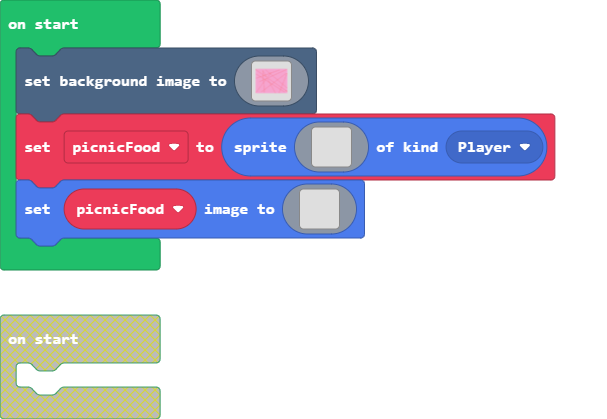
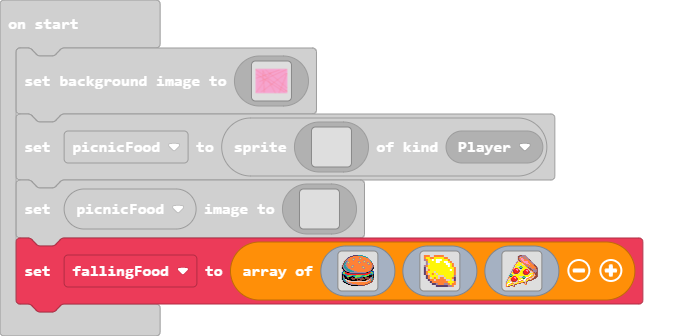
Update main.blocks, main.ts

diff --git a/main.ts b/main.ts
@@ -156,3 +156,87 @@ picnicFood.setImage(img`
     . . . . . . . . . . . . . . . . 
     . . . . . . . . . . . . . . . . 
     `)
+let fallingFood = [img`
+    ...........ccccc66666...........
+    ........ccc4444444444666........
+    ......cc444444444bb4444466......
+    .....cb4444bb4444b5b444444b.....
+    ....eb4444b5b44444b44444444b....
+    ...ebb44444b4444444444b444446...
+    ..eb6bb444444444bb444b5b444446..
+    ..e6bb5b44444444b5b444b44bb44e..
+    .e66b4b4444444444b4444444b5b44e.
+    .e6bb444444444444444444444bb44e.
+    eb66b44444bb444444444444444444be
+    eb66bb444b5b44444444bb44444444be
+    fb666b444bb444444444b5b4444444bf
+    fcb666b44444444444444bb444444bcf
+    .fbb6666b44444444444444444444bf.
+    .efbb66666bb4444444444444444bfe.
+    .86fcbb66666bbb44444444444bcc688
+    8772effcbbbbbbbbbbbbbbbbcfc22778
+    87722222cccccccccccccccc22226678
+    f866622222222222222222222276686f
+    fef866677766667777776667777fffef
+    fbff877768f86777777666776fffffbf
+    fbeffeefffeff7766688effeeeefeb6f
+    f6bfffeffeeeeeeeeeeeeefeeeeebb6e
+    f66ddfffffeeeffeffeeeeeffeedb46e
+    .c66ddd4effffffeeeeeffff4ddb46e.
+    .fc6b4dddddddddddddddddddb444ee.
+    ..ff6bb444444444444444444444ee..
+    ....ffbbbb4444444444444444ee....
+    ......ffebbbbbb44444444eee......
+    .........fffffffcccccee.........
+    ................................
+    `, img`
+    4 4 4 . . 4 4 4 4 4 . . . . . . 
+    4 5 5 4 4 5 5 5 5 5 4 4 . . . . 
+    b 4 5 5 1 5 1 1 1 5 5 5 4 . . . 
+    . b 5 5 5 5 1 1 5 5 1 1 5 4 . . 
+    . b d 5 5 5 5 5 5 5 5 1 1 5 4 . 
+    b 4 5 5 5 5 5 5 5 5 5 5 1 5 4 . 
+    c d 5 5 5 5 5 5 5 5 5 5 5 5 5 4 
+    c d 4 5 5 5 5 5 5 5 5 5 5 1 5 4 
+    c 4 5 5 5 d 5 5 5 5 5 5 5 5 5 4 
+    c 4 d 5 4 5 d 5 5 5 5 5 5 5 5 4 
+    . c 4 5 5 5 5 d d d 5 5 5 5 5 b 
+    . c 4 d 5 4 5 d 4 4 d 5 5 5 4 c 
+    . . c 4 4 d 4 4 4 4 4 d d 5 d c 
+    . . . c 4 4 4 4 4 4 4 4 5 5 5 4 
+    . . . . c c b 4 4 4 b b 4 5 4 4 
+    . . . . . . c c c c c c b b 4 . 
+    `, img`
+    .............beebbbb............
+    ............eebbbb4bb...........
+    ............eb344bb4bb..........
+    ............e44334bb4bb.........
+    ............eb433344b4be........
+    ............4eb43344444be.......
+    ...........bd4eb43333344bb......
+    ..........b455d4443333444bb.....
+    ..........4d5555d444333444bb....
+    .........4555555dd4b4443444be...
+    ........bd5555d555d4bb444444ee..
+    ........b55ddd665555bb4b44444ee.
+    .......bd5555677655554ebb44444eb
+    .......43222558855555d4eeb44b4ee
+    ......b422332ddd555222d4eebbb4be
+    ......be22232ed55522332db4ebbbbe
+    .....bde22222e555e22232edd4bbbbe
+    .....b52e222e3555e22222eddd4ebee
+    ....bd552eee355552e222e355544eee
+    ....665dd5555555552eee355dd4deee
+    ...6776555555555555555551554d4ee
+    ...4885222555dddd6655551544d4eee
+    ..b45522332555dd677611d444ddeee.
+    ..4d5222232e55555881d44ddd4eee..
+    .bdd5e22222e555115114d54d4ee....
+    .b55d2e222e351144d1d55eeee......
+    bd5ddd2eee3d444555dd4e..........
+    b555115dddd55d544eede...........
+    4511d444d5544ee...4de...........
+    41d4555d4ee........44...........
+    41554eede.......................
+    44ee...4e.......................
+    `]
